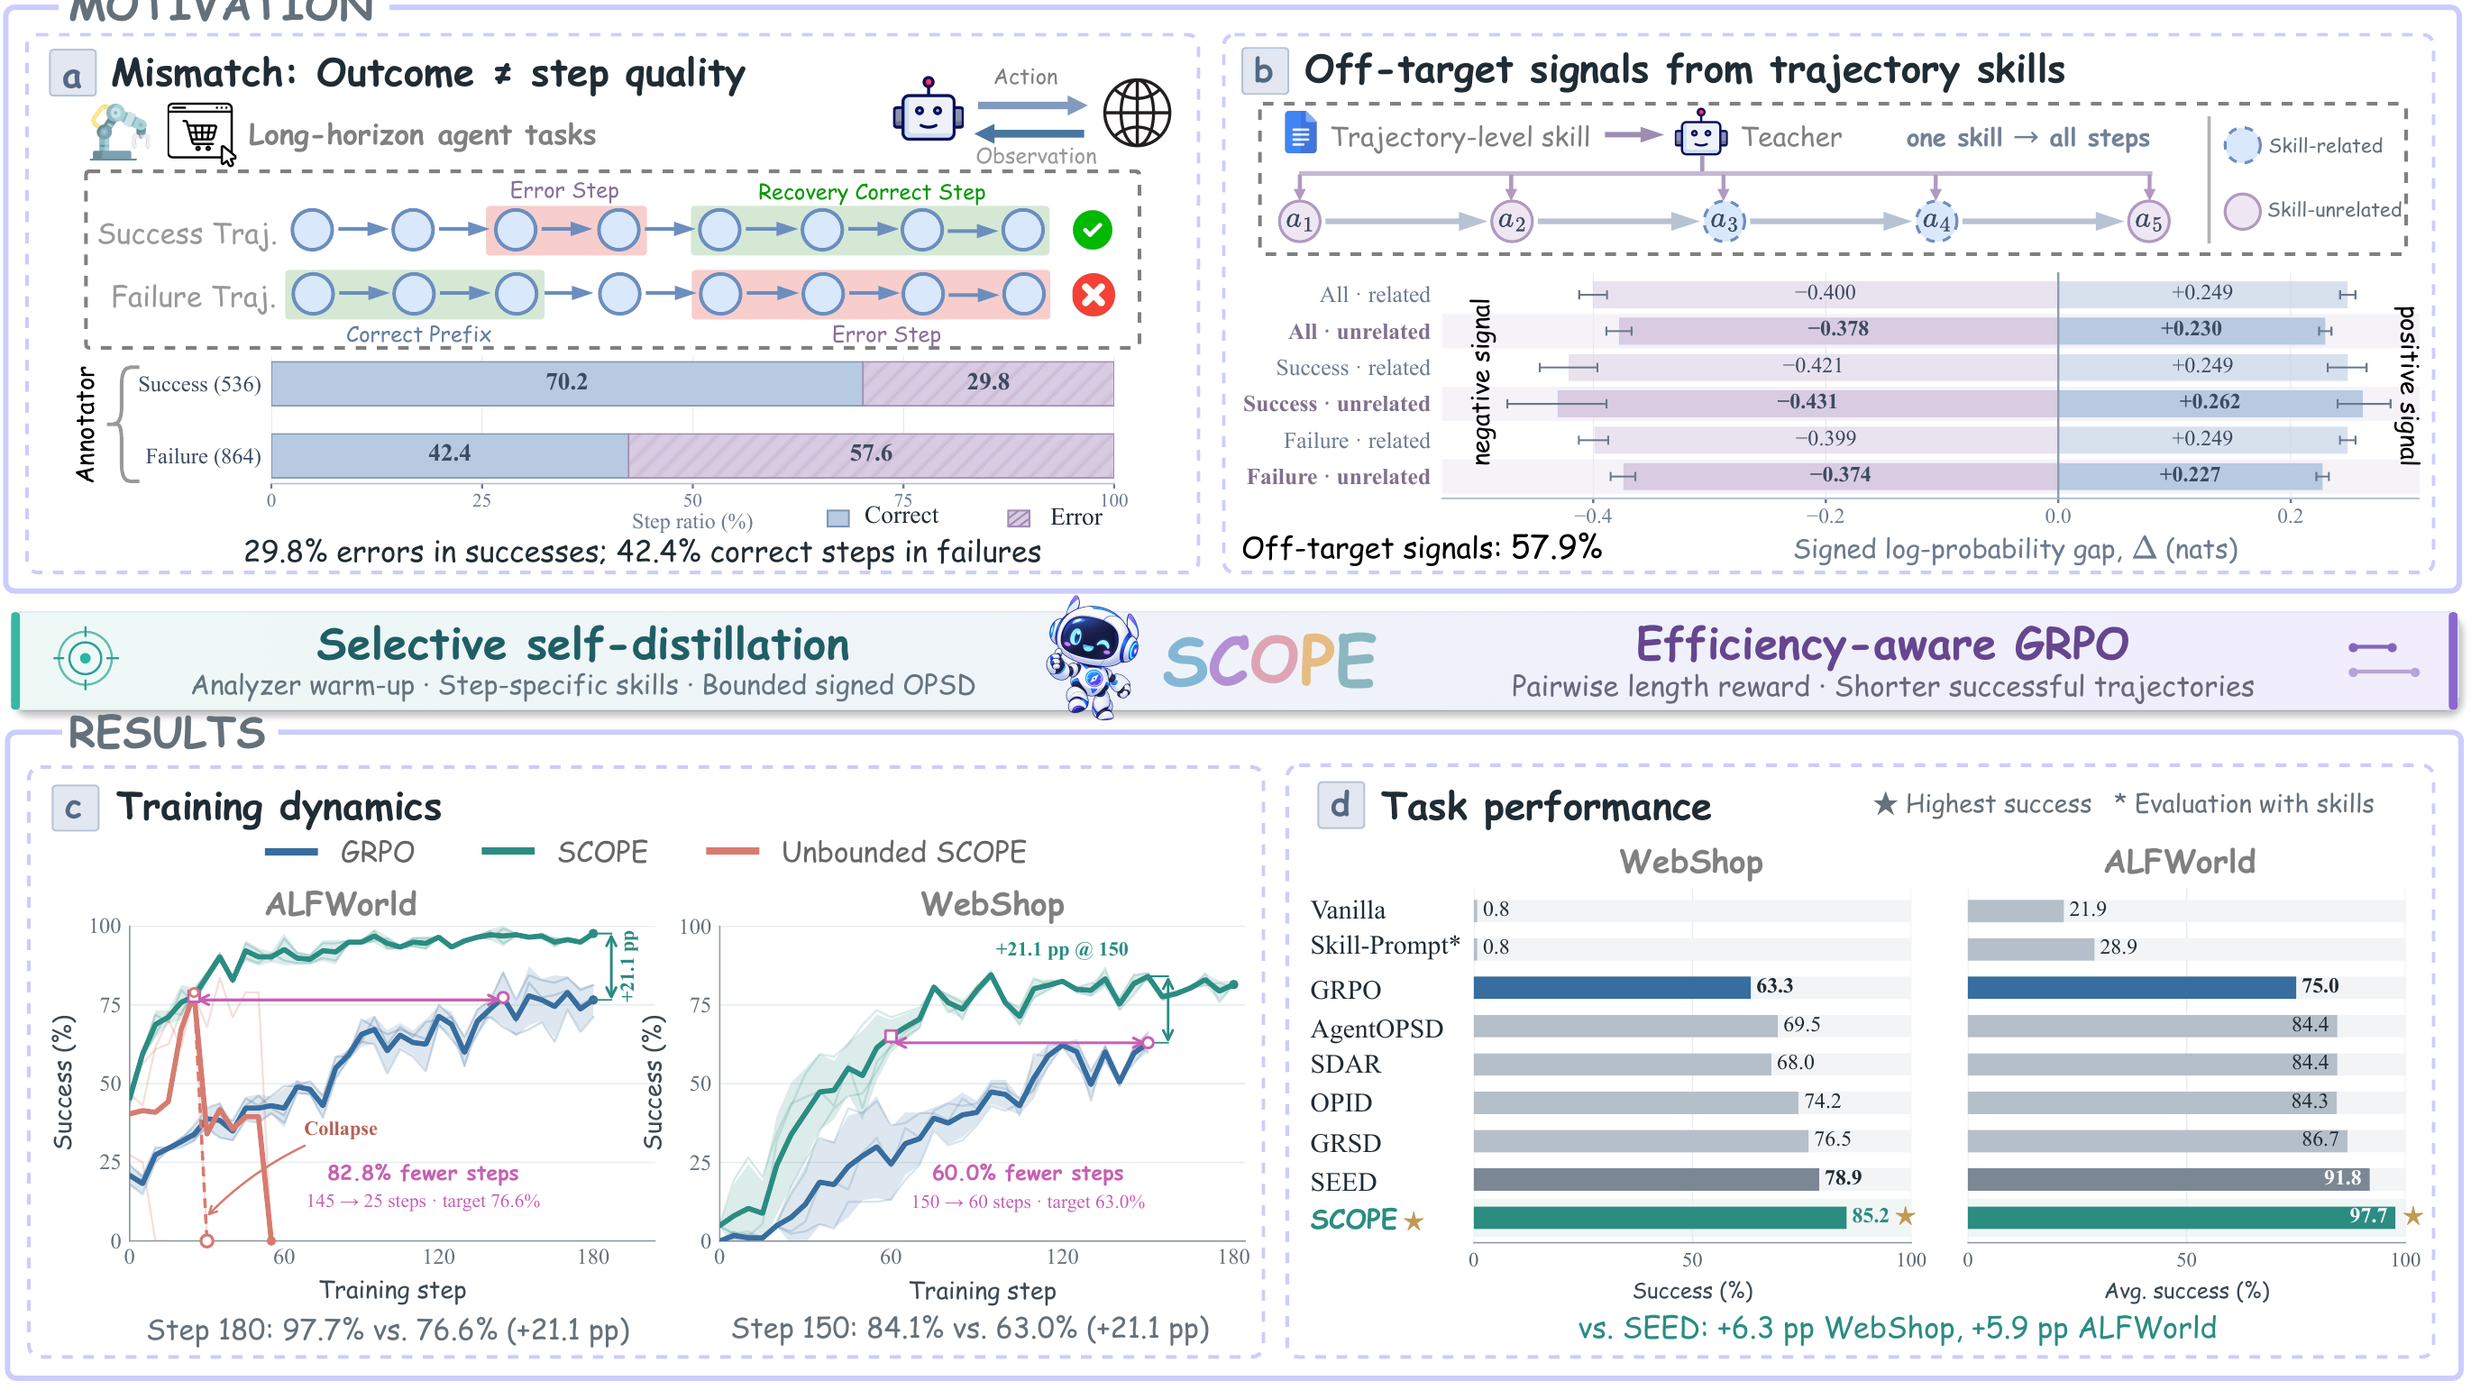
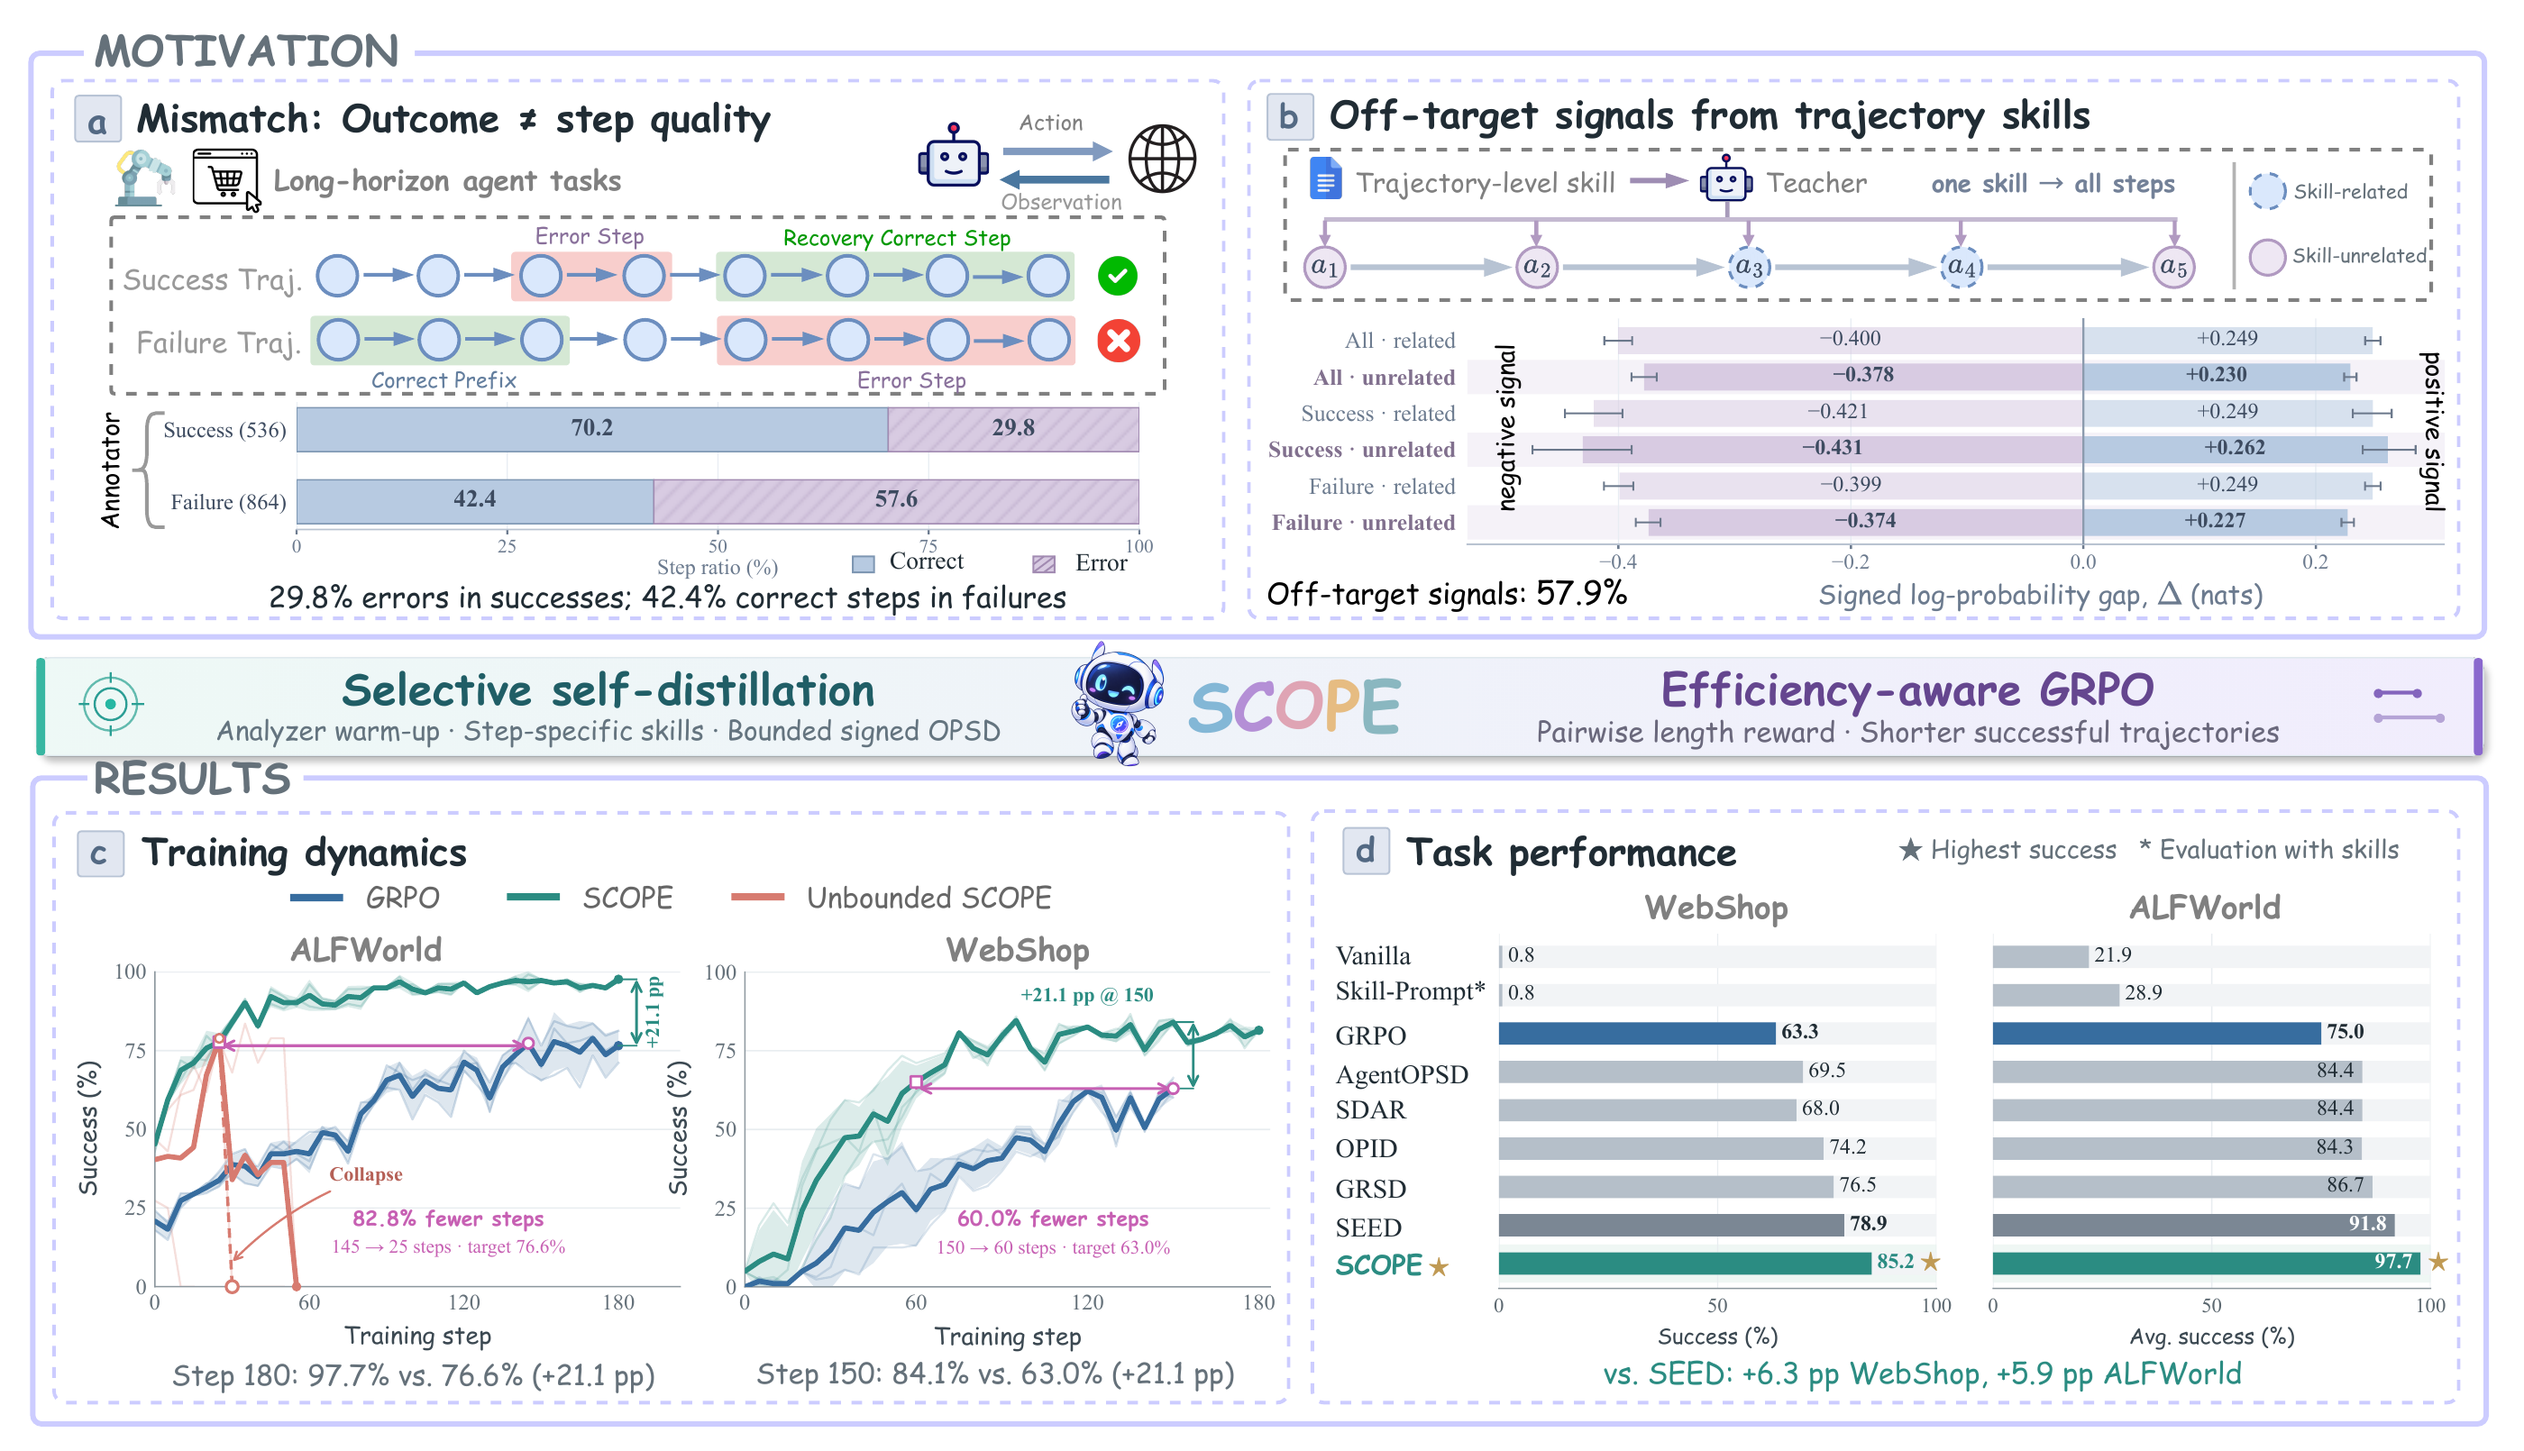
Fix cropped motivation label in overview figure

Changed region(s): [[0.0, 0.0, 1.0, 0.9897]]

diff --git a/index.html b/index.html
@@ -137,7 +137,7 @@
       </div>
 
       <figure class="paper-figure">
-        <button class="figure-open" type="button" data-figure="overview" aria-haspopup="dialog" aria-describedby="caption-overview"><img src="./assets/figures/scope-intro-overview.png" width="2751" height="1552" loading="lazy" decoding="async" data-i18n-alt="alt.overview" alt="SCOPE motivation and main results."><span class="zoom-label"><span aria-hidden="true">⤢</span> <span data-i18n="figure.zoom">View larger</span></span></button>
+        <button class="figure-open" type="button" data-figure="overview" aria-haspopup="dialog" aria-describedby="caption-overview"><img src="./assets/figures/scope-intro-overview.png" width="2800" height="1610" loading="lazy" decoding="async" data-i18n-alt="alt.overview" alt="SCOPE motivation and main results."><span class="zoom-label"><span aria-hidden="true">⤢</span> <span data-i18n="figure.zoom">View larger</span></span></button>
         <figcaption id="caption-overview" data-i18n="fig.overview">Figure 1 · Motivation and results. Outcome–step mismatch, off-target skill signals, training dynamics, and Qwen2.5-3B main results.</figcaption>
       </figure>
     </section>
